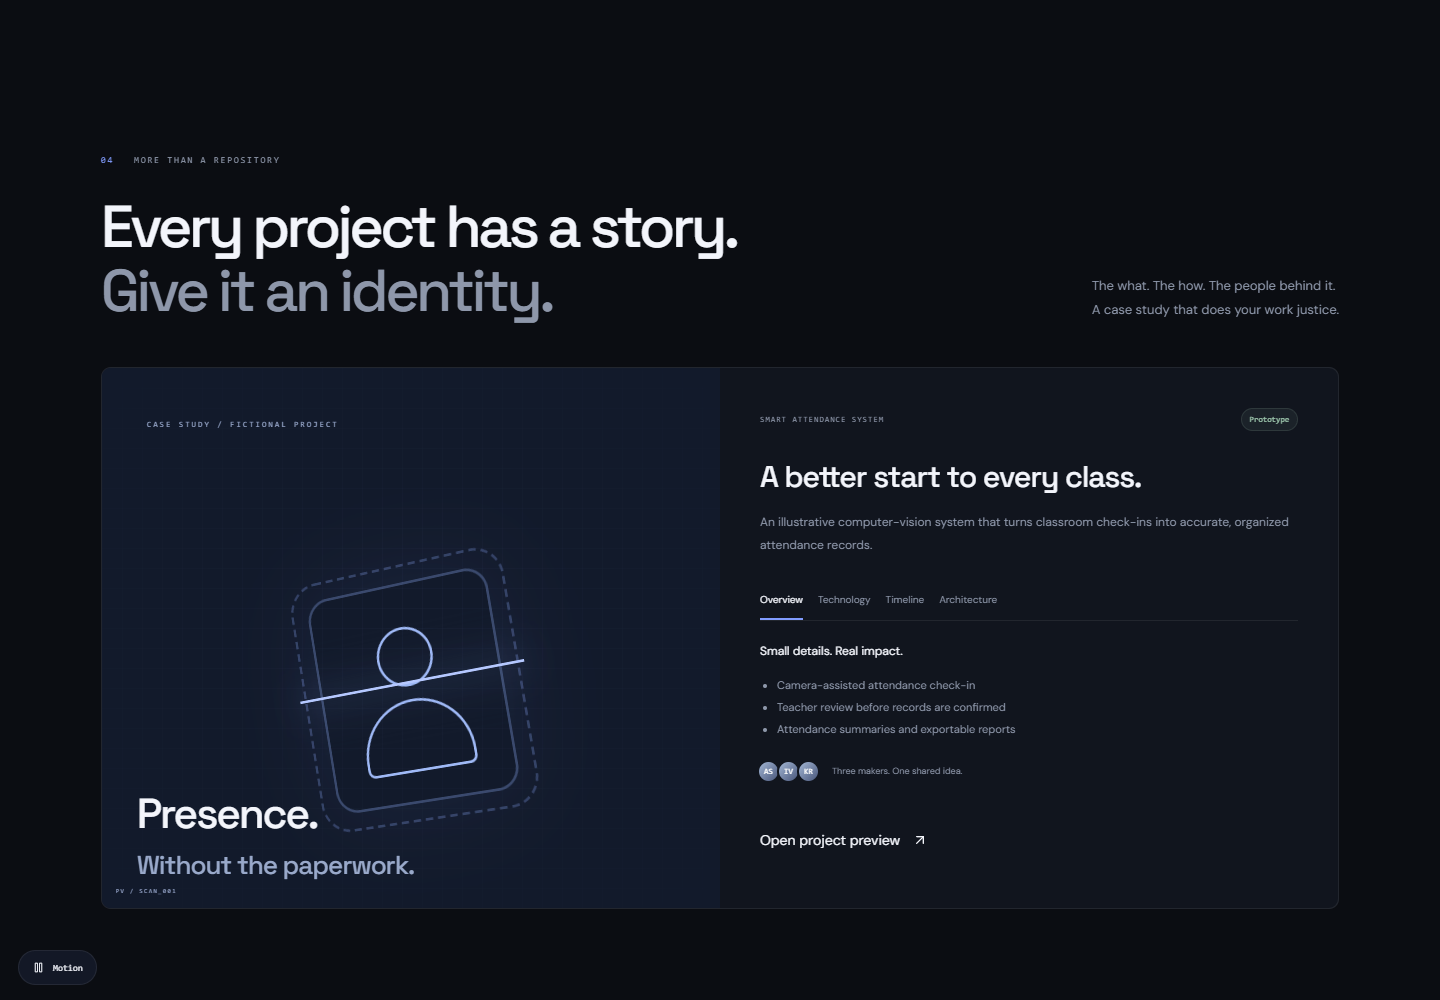
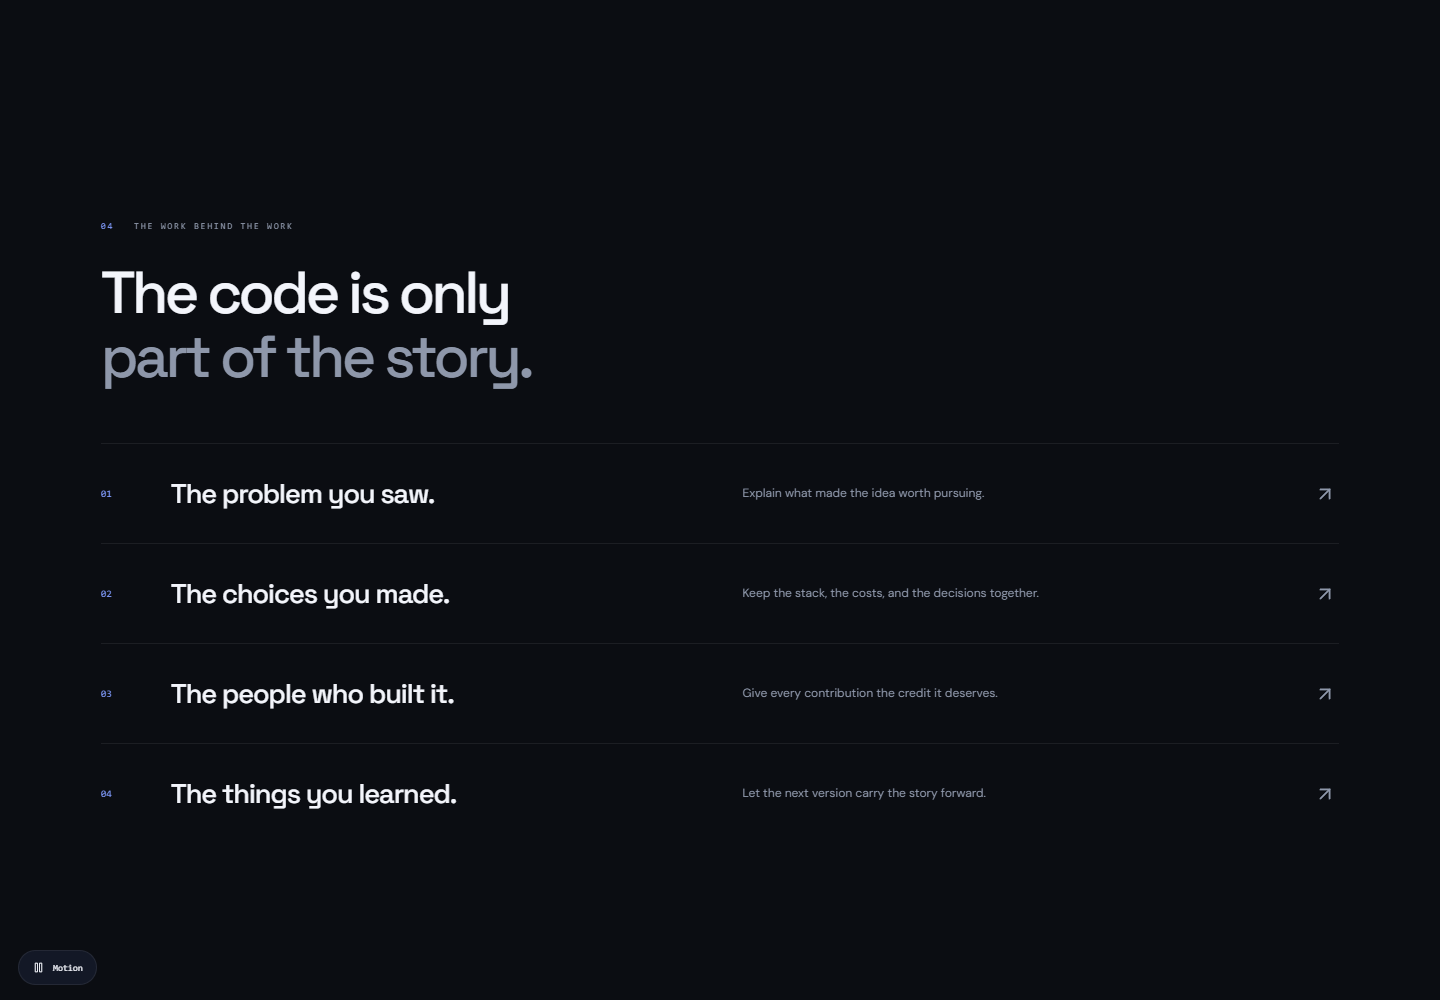
feat: update homepage design and remove fictional projects; enhance text animations and accessibility

diff --git a/components/platform/product/product-home.css b/components/platform/product/product-home.css
@@ -8,3 +8,4 @@
 @media(max-width:760px){.ph-hero{height:auto;min-height:1000px}.ph-hero-pin{position:relative;height:1000px;min-height:1000px;align-items:flex-start}.ph-hero-copy{padding-top:135px}.ph-hero h1{font-size:clamp(43px,9vw,65px)}.ph-hero-workspace{inset:500px -15% 0;opacity:1}.ph-workspace-image{mask-image:linear-gradient(0deg,transparent,#000 20%,#000 85%,transparent);opacity:.8}.ph-code{left:13%;top:2%;width:200px}.ph-design{right:12%;top:40%;width:220px}.ph-terminal{left:25%;top:80%}.ph-workspace-assembled{display:none}.ph-hero-workspace:after{background:linear-gradient(0deg,var(--ph-bg),transparent 30%)}.ph-hero-foot{margin-top:30px}.ph-clarity .ph-workspace-assembled{display:block;right:15%;width:70%;top:12%}.ph-clarity .ph-assembled-content{padding:18px}.ph-clarity .ph-assembled-content>div{gap:6px}.ph-clarity .ph-assembled-content strong{font-size:8px}.ph-clarity .ph-assembled-content .ph-art{height:85px}}
 .ph-home[data-motion=still] .ph-workspace:not(.organized) .ph-floating{opacity:1!important;transform:none!important}.ph-demo-cursor{position:absolute;z-index:4;right:22%;top:45%;display:flex;align-items:center;gap:4px;color:#a3b5ed;animation:ph-design-cursor 9s ease-in-out infinite;pointer-events:none}.ph-demo-cursor>span{font:7px monospace;background:#7285c6;padding:4px 6px;border-radius:3px;color:white}.ph-code pre{animation:ph-code-reveal 2.2s steps(16) .6s both}.ph-home[data-motion=still] .ph-demo-cursor,.ph-home[data-motion=still] .ph-code pre{animation:none}.ph-home[data-motion=still] .ph-code pre{clip-path:none}@media(prefers-reduced-motion:reduce){.ph-hero{height:100svh;min-height:780px}.ph-hero-pin{position:relative}}@keyframes ph-code-reveal{from{clip-path:inset(0 100% 0 0)}to{clip-path:inset(0)}}@keyframes ph-design-cursor{0%,100%{transform:translate(0,0)}35%{transform:translate(45px,-25px)}65%{transform:translate(-30px,60px)}}@media(max-width:760px){.ph-home[data-motion=still] .ph-hero{height:auto;min-height:1000px}.ph-demo-cursor{right:20%;top:57%}}
 .pf-atlas{display:grid;grid-template-columns:1.3fr 1fr;align-items:center;gap:55px;border-block:1px solid var(--ph-line);padding:50px 0}.pf-orbital{position:relative;height:470px;perspective:1000px}.pf-orbit-ring{position:absolute;width:340px;height:340px;left:50%;top:50%;transform:translate(-50%,-50%) rotateX(30deg);border:1px solid #819cff2b;border-radius:50%;box-shadow:0 0 70px #819cff06}.pf-orbit-ring.inner{width:220px;height:220px;transform:translate(-50%,-50%) rotateY(-30deg);border-style:dashed}.pf-core{position:absolute;left:50%;top:50%;transform:translate(-50%,-50%);width:155px;height:180px;display:flex;flex-direction:column;align-items:center;justify-content:center;gap:16px;background:radial-gradient(ellipse,#819cff12,transparent 70%);color:var(--ph-accent)}.pf-core strong{font:500 23px/1.1 'Space Grotesk';letter-spacing:-1px;text-align:center;color:var(--ph-text)}.pf-core>span{font:6px monospace;letter-spacing:1px}.pf-node{position:absolute;display:flex;align-items:center;gap:10px;border:1px solid var(--ph-line);background:var(--ph-surface);color:var(--ph-muted);border-radius:8px;padding:16px 15px;box-shadow:0 14px 35px #0002;transition:border-color .3s,translate .3s;font-size:11px!important;min-width:170px}.pf-node small{font:7px monospace;margin-left:auto;opacity:.5}.pf-node[aria-pressed=true]{border-color:#819cff88;color:var(--ph-accent);translate:0 -4px;background:var(--ph-raised)}.pf-node-0{top:5%;left:20%}.pf-node-1{top:26%;right:0}.pf-node-2{bottom:20%;right:0}.pf-node-3{bottom:1%;left:20%}.pf-node-4{bottom:24%;left:0}.pf-node-5{top:25%;left:0}.pf-feature-copy{min-height:260px;padding-right:25px}.pf-feature-copy h3{font-size:42px;font-weight:500;letter-spacing:-1.8px;margin:0 0 20px}.pf-feature-copy p:not(.ph-label){font-size:14px;line-height:1.9;color:var(--ph-muted);max-width:360px}.pf-feature-copy .ph-text-link{margin-top:15px}.pf-story-lines{margin-top:55px}.pf-story-lines>div{display:grid;grid-template-columns:45px 1fr 1fr 25px;align-items:center;gap:25px;padding:32px 0;border-top:1px solid var(--ph-line)}.pf-story-lines>div>span{font:10px monospace;color:var(--ph-accent)}.pf-story-lines h3{font-size:27px;font-weight:500;letter-spacing:-1px;margin:0}.pf-story-lines p{font-size:12px;line-height:1.8;color:var(--ph-muted);margin:0}.pf-story-lines svg{color:var(--ph-muted)}.pf-disciplines{border-block:1px solid var(--ph-line)}.pf-discipline-nav{display:flex;border-bottom:1px solid var(--ph-line)}.pf-discipline-nav button{flex:1;display:flex;align-items:center;gap:20px;background:transparent;border:0;border-bottom:2px solid transparent;padding:28px 20px;font:500 26px 'Space Grotesk';letter-spacing:-1px;color:var(--ph-muted)}.pf-discipline-nav small{font:9px monospace;letter-spacing:0}.pf-discipline-nav svg{margin-left:auto}.pf-discipline-nav button[aria-pressed=true]{color:var(--ph-text);border-bottom-color:var(--ph-accent)}.pf-discipline-detail{display:grid;grid-template-columns:1fr 1fr;gap:55px;align-items:center;min-height:350px;padding:35px 6%}.pf-discipline-detail h3{font-size:35px;font-weight:500;letter-spacing:-1.4px;margin:0 0 20px}.pf-discipline-detail p:not(.ph-label){font-size:13px;line-height:1.85;color:var(--ph-muted)}.pf-sculpture{position:relative;width:210px;height:210px;margin:auto;display:grid;place-items:center;transform:perspective(800px) rotateY(-20deg) rotateX(15deg);transform-style:preserve-3d;color:var(--ph-accent);transition:transform .6s}.pf-sculpture i{position:absolute;inset:0;border:1px solid #819cff55;border-radius:24px;background:linear-gradient(145deg,#819cff12,#819cff02);box-shadow:8px 8px 0 #819cff07;transform:translateZ(-25px)}.pf-sculpture i:nth-child(2){inset:20px;transform:translateZ(0)}.pf-sculpture i:nth-child(3){inset:40px;transform:translateZ(25px)}.pf-sculpture svg{transform:translateZ(55px)}.sculpture-1{transform:perspective(800px) rotateY(25deg) rotateX(40deg)}.sculpture-1 i{border-radius:6px;border-style:dashed}.sculpture-2{transform:perspective(800px) rotateY(-30deg) rotateZ(-15deg)}.sculpture-2 i{border-radius:50%}.pf-mini-module{padding:22px 9px 10px;text-align:center;color:#9fb2e5}.pf-mini-module strong{font:7px monospace!important;min-height:0!important}.pf-mini-module span{font-size:6px!important}.ph-home[data-motion=still] .pf-node{transition:none}@media(max-width:900px){.pf-atlas{grid-template-columns:1fr;gap:30px}.pf-orbital{max-width:570px;width:100%;margin:auto}.pf-feature-copy{min-height:230px;padding:0 6%}.pf-story-lines>div{grid-template-columns:25px 1fr 25px;gap:15px}.pf-story-lines p{grid-column:2;grid-row:2}.pf-story-lines svg{grid-column:3;grid-row:1}.pf-discipline-nav button{font-size:22px;gap:12px}.pf-discipline-detail{gap:25px;padding:35px 0}.pf-discipline-detail h3{font-size:29px}}@media(max-width:600px){.pf-orbital{height:440px}.pf-node{min-width:0;padding:12px 9px;font-size:9px!important;gap:6px}.pf-node small{display:none}.pf-node svg{width:15px}.pf-node-0,.pf-node-3{left:30%}.pf-node-1{top:23%}.pf-node-5{top:23%}.pf-node-4,.pf-node-2{bottom:22%}.pf-core{width:120px;height:145px}.pf-core strong{font-size:20px}.pf-core>span{font-size:5px}.pf-orbit-ring{width:260px;height:300px}.pf-orbit-ring.inner{width:170px;height:190px}.pf-feature-copy h3{font-size:34px}.pf-feature-copy p:not(.ph-label){font-size:13px}.pf-story-lines h3{font-size:22px}.pf-discipline-nav button{font-size:16px;padding:20px 7px;gap:7px;letter-spacing:-.5px}.pf-discipline-nav svg{width:14px}.pf-discipline-nav small{font-size:7px}.pf-discipline-detail{grid-template-columns:1fr;padding:40px 5%;gap:40px}.pf-sculpture{width:160px;height:160px}.pf-discipline-detail h3{font-size:31px}.pf-atlas{padding-top:15px}}
+@media(max-width:600px){.pf-discipline-nav button{min-width:0;gap:5px;padding-inline:5px}.pf-discipline-nav svg{flex-shrink:0}.pf-discipline-detail{grid-template-columns:minmax(0,1fr)}}@media(max-width:360px){.pf-discipline-nav button{font-size:14px}.pf-discipline-nav small{display:none}}

diff --git a/components/platform/product/useTextMotion.ts b/components/platform/product/useTextMotion.ts
@@ -6,7 +6,7 @@ export function useTextMotion(root:RefObject<HTMLDivElement|null>,still:boolean)
   const host=root.current;if(!host||still)return;
   const animated=new WeakSet<Element>(),running=new Set<Animation>();
   const blocks='h1,h2,h3,h4,p,a,button,li,code,pre,small,strong';
-  const observer=new IntersectionObserver(entries=>{entries.forEach(({target,isIntersecting})=>{if(!isIntersecting)return;observer.unobserve(target);if(target.closest('[aria-hidden="true"]')||target.contains(document.activeElement))return;const heading=/^H[1-4]$/.test(target.tagName);const animation=target.animate([{opacity:.15,translate:`0 ${heading?24:10}px`,filter:heading?'blur(3px)':'blur(0)'},{opacity:1,translate:'0 0',filter:'blur(0)'}],{duration:heading?760:480,easing:'cubic-bezier(.22,1,.36,1)',fill:'none'});running.add(animation);animation.onfinish=()=>running.delete(animation);});},{threshold:.1});
+  const observer=new IntersectionObserver(entries=>{entries.forEach(({target,isIntersecting})=>{if(!isIntersecting)return;observer.unobserve(target);if(target.closest('[aria-hidden="true"]')||target.contains(document.activeElement))return;const heading=/^H[1-4]$/.test(target.tagName),interactive=target.matches('a,button');const animation=target.animate([{opacity:.15,translate:`0 ${interactive?0:heading?24:10}px`,filter:heading?'blur(3px)':'blur(0)'},{opacity:1,translate:'0 0',filter:'blur(0)'}],{duration:heading?760:480,easing:'cubic-bezier(.22,1,.36,1)',fill:'none'});running.add(animation);animation.onfinish=()=>running.delete(animation);});},{threshold:.1});
   const scan=()=>{host.querySelectorAll(`${blocks},span`).forEach(el=>{if(animated.has(el)||!el.textContent?.trim()||el.closest('[aria-hidden="true"]'))return;if(el.parentElement?.closest(blocks))return;if(el.tagName==='SPAN'&&el.querySelector(blocks+',span'))return;animated.add(el);observer.observe(el);});};
   scan();const mutations=new MutationObserver(scan);mutations.observe(host,{childList:true,subtree:true});
   const focus=()=>{running.forEach(a=>a.finish());running.clear();};host.addEventListener('focusin',focus);

diff --git a/README.md b/README.md
@@ -20,13 +20,13 @@ Repoggits brings software, hardware, and hybrid academic projects into one searc
 
 The homepage now introduces **Project Vault** through a product-led engineering workspace. An original cinematic workstation image sits behind live HTML interfaces: code, architecture, a design canvas, build status, and an assembled product preview. Scroll progress brings the interface forward; the engineer provides context rather than a student-life storyline.
 
-The page includes an interactive sample dashboard, six fictional projects, searchable category filters, accessible project-preview dialogs, a six-step workflow, project-profile sections, stack badges, and preview-link sharing. Example data is labelled; entry links lead to the existing `/workspace`, `/projects`, and `/submit` routes. These homepage demonstrations do not create projects or call an AI service.
+The homepage presents an interactive capability diagram, a six-step workflow, a software/hardware/hybrid explorer, and a visual explanation of the project story. It does not show fictional projects, sample creators, or demo project cards. Real projects remain on `/projects`, with existing workspace and submission entry links preserved. Semantic text blocks reveal throughout the page; animation stops for the pause control and reduced-motion preference without changing accessible text.
 
-Dark mode is the default for new homepage visitors. The light/dark control uses the existing `repoggits-theme` browser preference. Reduced motion, a pause control, keyboard navigation, and dedicated mobile layouts keep the page usable. Framer Motion handles reveals, scroll composition, pointer depth, and filter transitions. The engineer is an original generated still, not a rigged animated character; the surrounding product interfaces are animated independently. Images are delivered through Next.js image optimization.
+Dark mode is the default for new homepage visitors. The light/dark control uses the existing `repoggits-theme` browser preference. Reduced motion, a pause control, keyboard navigation, and dedicated mobile layouts keep the page usable. Framer Motion handles reveals, scroll composition, pointer depth, and feature transitions. The engineer is an original generated still, not a rigged animated character; the surrounding product interfaces are animated independently. Images are delivered through Next.js image optimization.
 
-![Interactive Project Vault dashboard with fictional project examples](docs/screenshots/product-dashboard.png)
+![Interactive Project Vault capability diagram](docs/screenshots/product-dashboard.png)
 
-![Project identity preview with technology and timeline sections](docs/screenshots/product-case-study.png)
+![The story behind each engineering project](docs/screenshots/product-case-study.png)
 
 Homepage regression coverage is in `tests/product-home.spec.ts`; superseded design tests are preserved in `tests/retired`.
 
